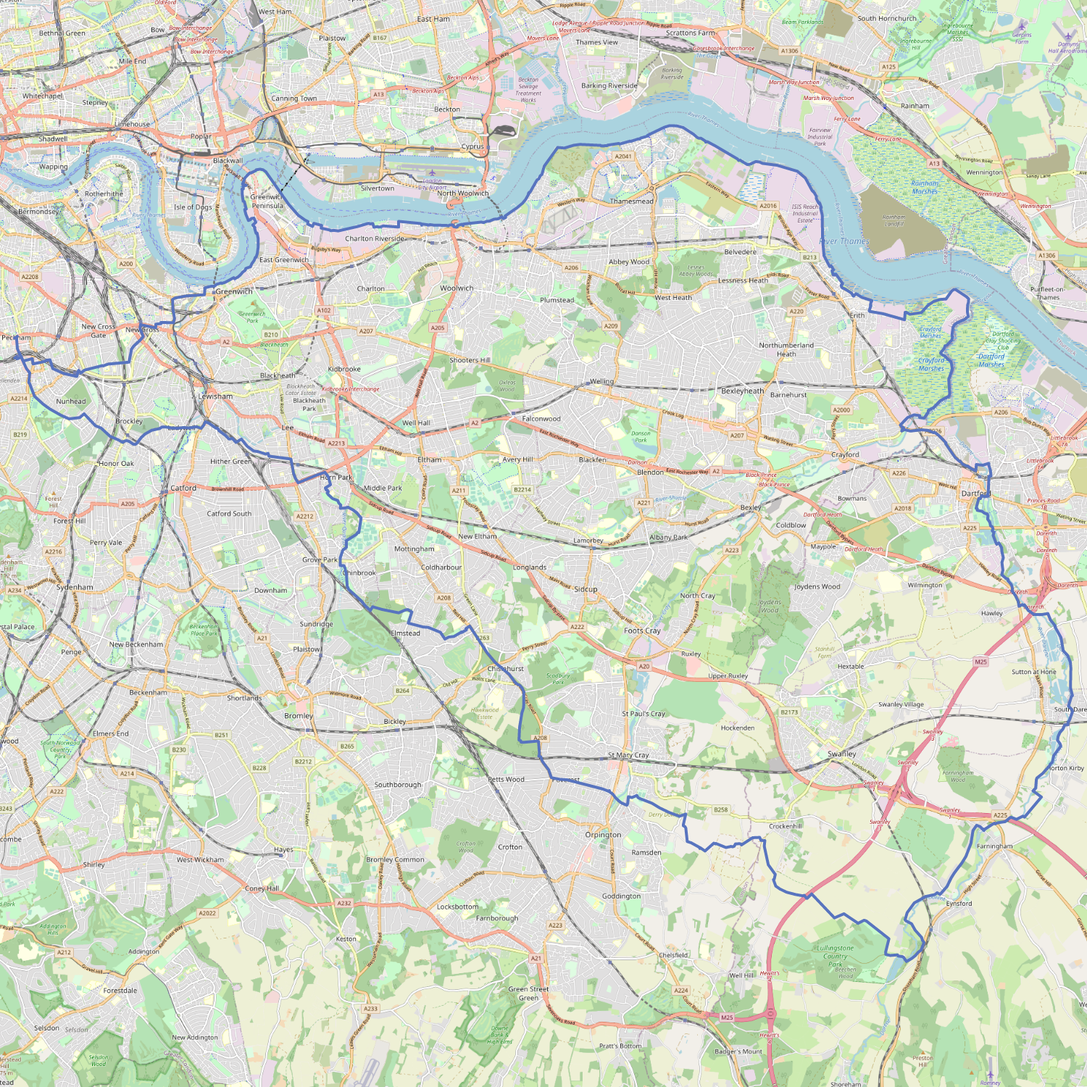
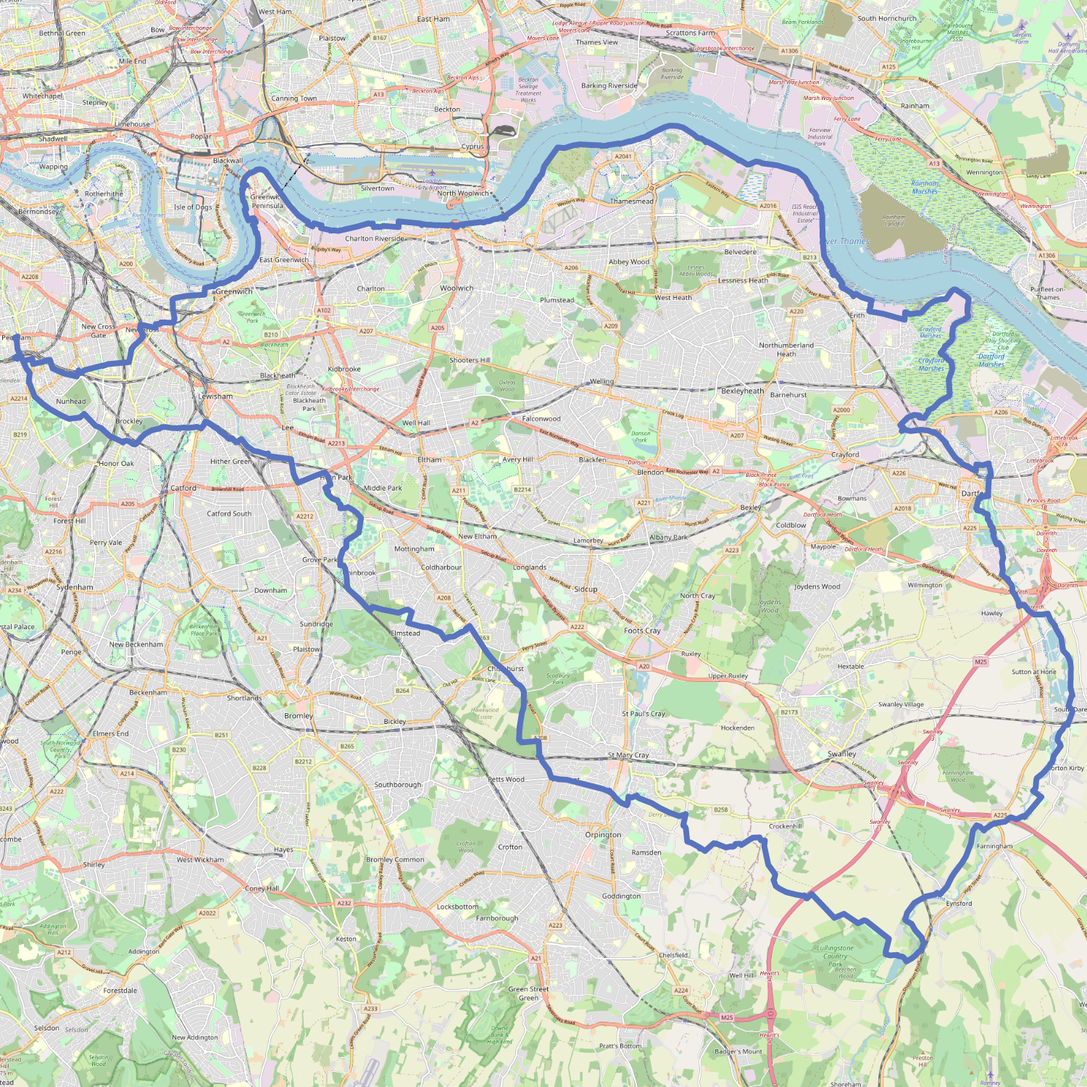
leave CX in route titles, upgrade responsive loader and do not build on install

diff --git a/packages/website/assets/routes/index.js b/packages/website/assets/routes/index.js
@@ -2,7 +2,7 @@
 export default [
   {
     hash: 'pcc-cx-social',
-    title: 'Social',
+    title: 'CX Social',
     description: 'Intended for gravel and CX bikes!',
     distance: 62,
     vert: 758,
@@ -14,7 +14,7 @@ export default [
   },
   {
     hash: 'pcc-cx-social-alt',
-    title: 'Social Alt',
+    title: 'CX Social Alt',
     description: 'CX/Gravel bikes!',
     distance: 52,
     vert: 461,
@@ -26,7 +26,7 @@ export default [
   },
   {
     hash: 'pcc-cx-south-london-loop',
-    title: 'South London Loop',
+    title: 'CX South London Loop',
     description: "Big day out on the cross and gravel bikes! Once you reach Richmond you barely ride on a road again until you're back in London. Find refreshment options at the Box Hill café, or if it's too busy, it's only a few km of flat bridleways to the Cricketer pub in Mogador.",
     distance: 113,
     vert: 1163,
@@ -38,7 +38,7 @@ export default [
   },
   {
     hash: 'pcc-cx-darent-thames-path',
-    title: 'Darent & Thames Path',
+    title: 'CX Darent & Thames Path',
     description: 'Gravel/CX ride - Lumpy and muddy out, flat and smoother back along the Thames Path',
     distance: 82,
     vert: 470,

diff --git a/packages/website/webpack.config.js b/packages/website/webpack.config.js
@@ -9,6 +9,7 @@ const FaviconsWebpackPlugin = require('favicons-webpack-plugin')
 const TerserPlugin = require('terser-webpack-plugin')
 const CaseSensitivePathsPlugin = require('case-sensitive-paths-webpack-plugin')
 const CopyPlugin = require('copy-webpack-plugin')
+const ImageminPlugin = require('imagemin-webpack-plugin').default
 
 const config = {
   mode: process.env.NODE_ENV || 'production',
@@ -38,6 +39,14 @@ const config = {
       patterns: [{
         from: './assets/routes/*.png', to: ''
       }]
+    }),
+    new ImageminPlugin({
+      disable: process.env.NODE_ENV === 'development',
+      test: /\.(jpe?g|png|gif|svg)$/i,
+      pngquant: {
+        strip: true,
+        quality: [0.9, 1]
+      }
     })
   ],
   module: {

diff --git a/packages/website/src/pages/routes.js b/packages/website/src/pages/routes.js
@@ -231,6 +231,7 @@ class RoutesPage extends Component {
           <RoutesPanel>
             <FilterWrapper>
               <Filter style={filterStyle}>
+                <h3>{selectedRoutes.length} Routes</h3>
                 <p>Search: <FilterSearch type='search' value={search} onChange={(event) => this.handleSearchChange(`${event.target.value}`.trim())} /></p>
                 <FilterCategory>
                   <p>Type:</p>

diff --git a/packages/routes/index.js b/packages/routes/index.js
@@ -85,9 +85,7 @@ async function main () {
     const output = {
       hash,
       title: json.name.trim()
-        .replace(/^PCC/, '').trim()
-        .replace(/^CX/, '').trim()
-        .replace(/^-/, '').trim(),
+        .replace(/^PCC\s?-?/, '').trim(),
       description: json.description,
       distance: Math.round(json.distance / 1000),
       vert: Math.round(json.elevation_gain),

diff --git a/packages/routes/generate/index.js b/packages/routes/generate/index.js
@@ -53,7 +53,7 @@ var path_layer = new ol.layer.Vector({
   style: new ol.style.Style({
     stroke: new ol.style.Stroke({
       color: '#5874bf',
-      width: 4
+      width: 8
     })
   })
 });
